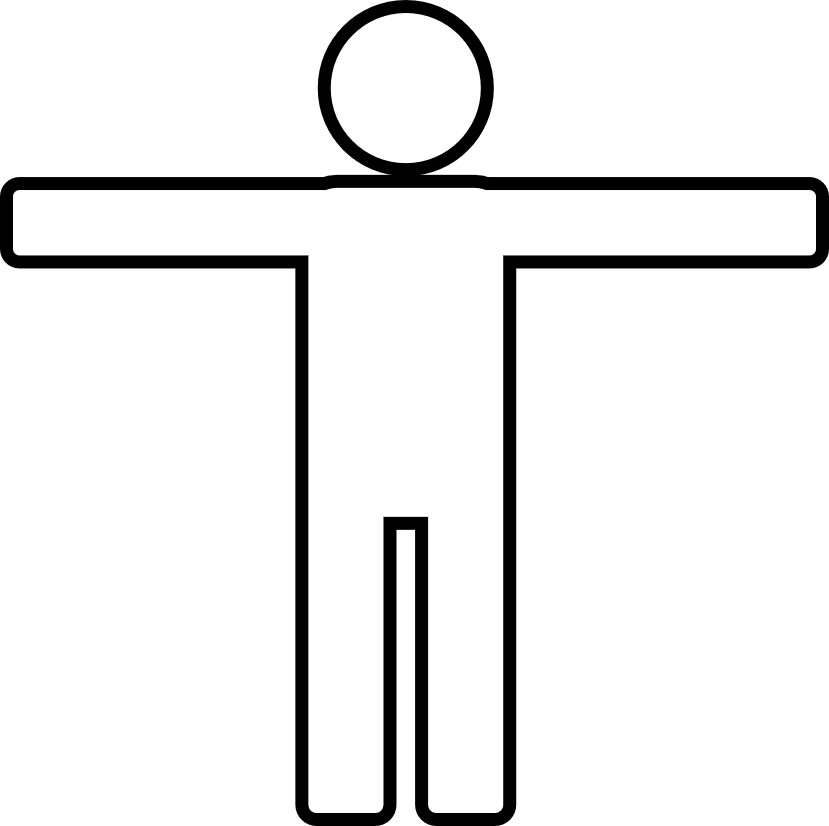
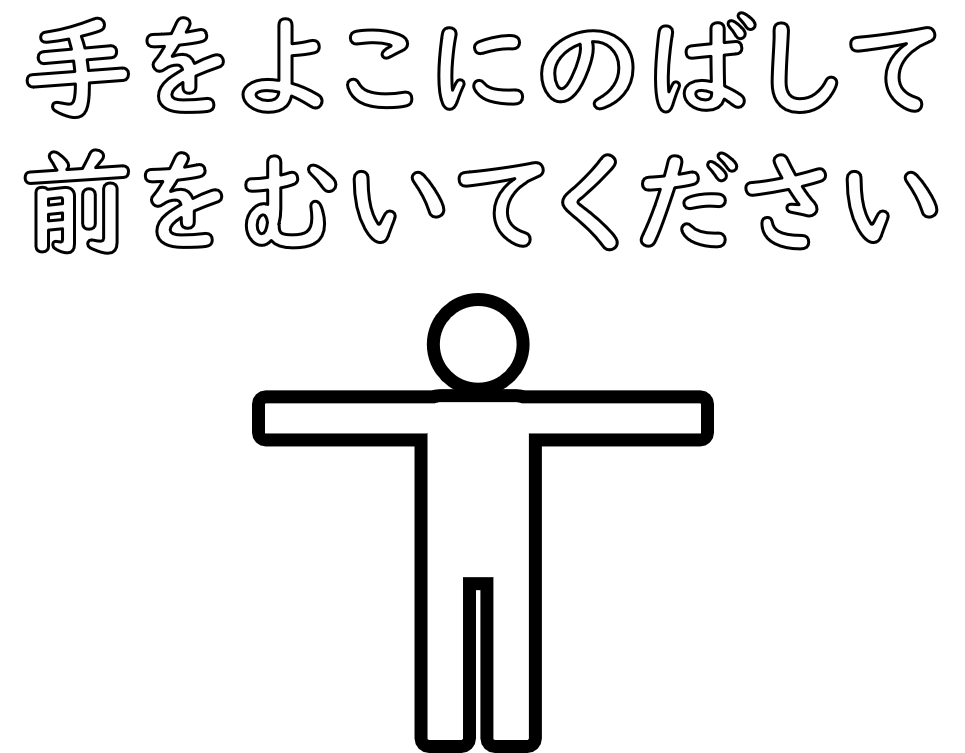
Ver.1.0としてひとまず完成。

Changed region(s): [[0.0, 0.0, 1.0, 1.0], [0.0302, 0.0, 0.3317, 0.1833], [0.8745, 0.0305, 0.965, 0.1527]]

diff --git a/OculusGoPremaidAI/Assets/VRTracerToMotion.cs b/OculusGoPremaidAI/Assets/VRTracerToMotion.cs
@@ -14,6 +14,7 @@ public class VRTracerToMotion : MonoBehaviour
     public Transform previewModel;          // 表示用のモデル
 
     public Canvas uiCanvas;                 // 操作用のUI
+    public Transform calibrationText;       // キャリブレーション時に表示するオブジェクト
 
     public float scale = 0.2f;
 
@@ -59,11 +60,13 @@ public class VRTracerToMotion : MonoBehaviour
         if (!ikController) ikController = GetComponent<PreMaidIKController>();
         if (!previewModel) previewModel = ikController.transform;
 
+        if (calibrationText) calibrationText.gameObject.SetActive(false);
+
         originalHeadPosition = ikController.headTransform.position;
         originalRightHandPosition = ikController.rightHandTransform.position;
         originalLeftHandPosition = ikController.leftHandTransform.position;
 
-        Debug.Log(originalHeadPosition + " / " + originalRightHandPosition + " / " + originalLeftHandPosition);
+        //Debug.Log(originalHeadPosition + " / " + originalRightHandPosition + " / " + originalLeftHandPosition);
 
         Vector3 lossyScale = ikController.transform.lossyScale;
         Vector3 vec = ikController.transform.position - ikController.headTransform.position;
@@ -178,6 +181,7 @@ public class VRTracerToMotion : MonoBehaviour
         // キャリブレーション開始
         isCalibrating = true;
         SetVisible(false);
+        if (calibrationText) calibrationText.gameObject.SetActive(true);
         
         // 手を真横にする時間待つ
         yield return new WaitForSeconds(2f);
@@ -206,7 +210,7 @@ public class VRTracerToMotion : MonoBehaviour
         if (leftHandCalibration.Count > 0)
             leftPos = leftHandCalibration.Aggregate(Vector3.zero, (s, v) => s + v) / leftHandCalibration.Count;
 
-        Debug.Log(headPos + " / " + rightPos + " / " + leftPos);
+        //Debug.Log(headPos + " / " + rightPos + " / " + leftPos);
 
         // 大きさ調整
         const float lenOffset = -0.5f;
@@ -217,5 +221,6 @@ public class VRTracerToMotion : MonoBehaviour
         // キャリブレーション終了
         isCalibrating = false;
         SetVisible(true);
+        if (calibrationText) calibrationText.gameObject.SetActive(false);
     }
 }
